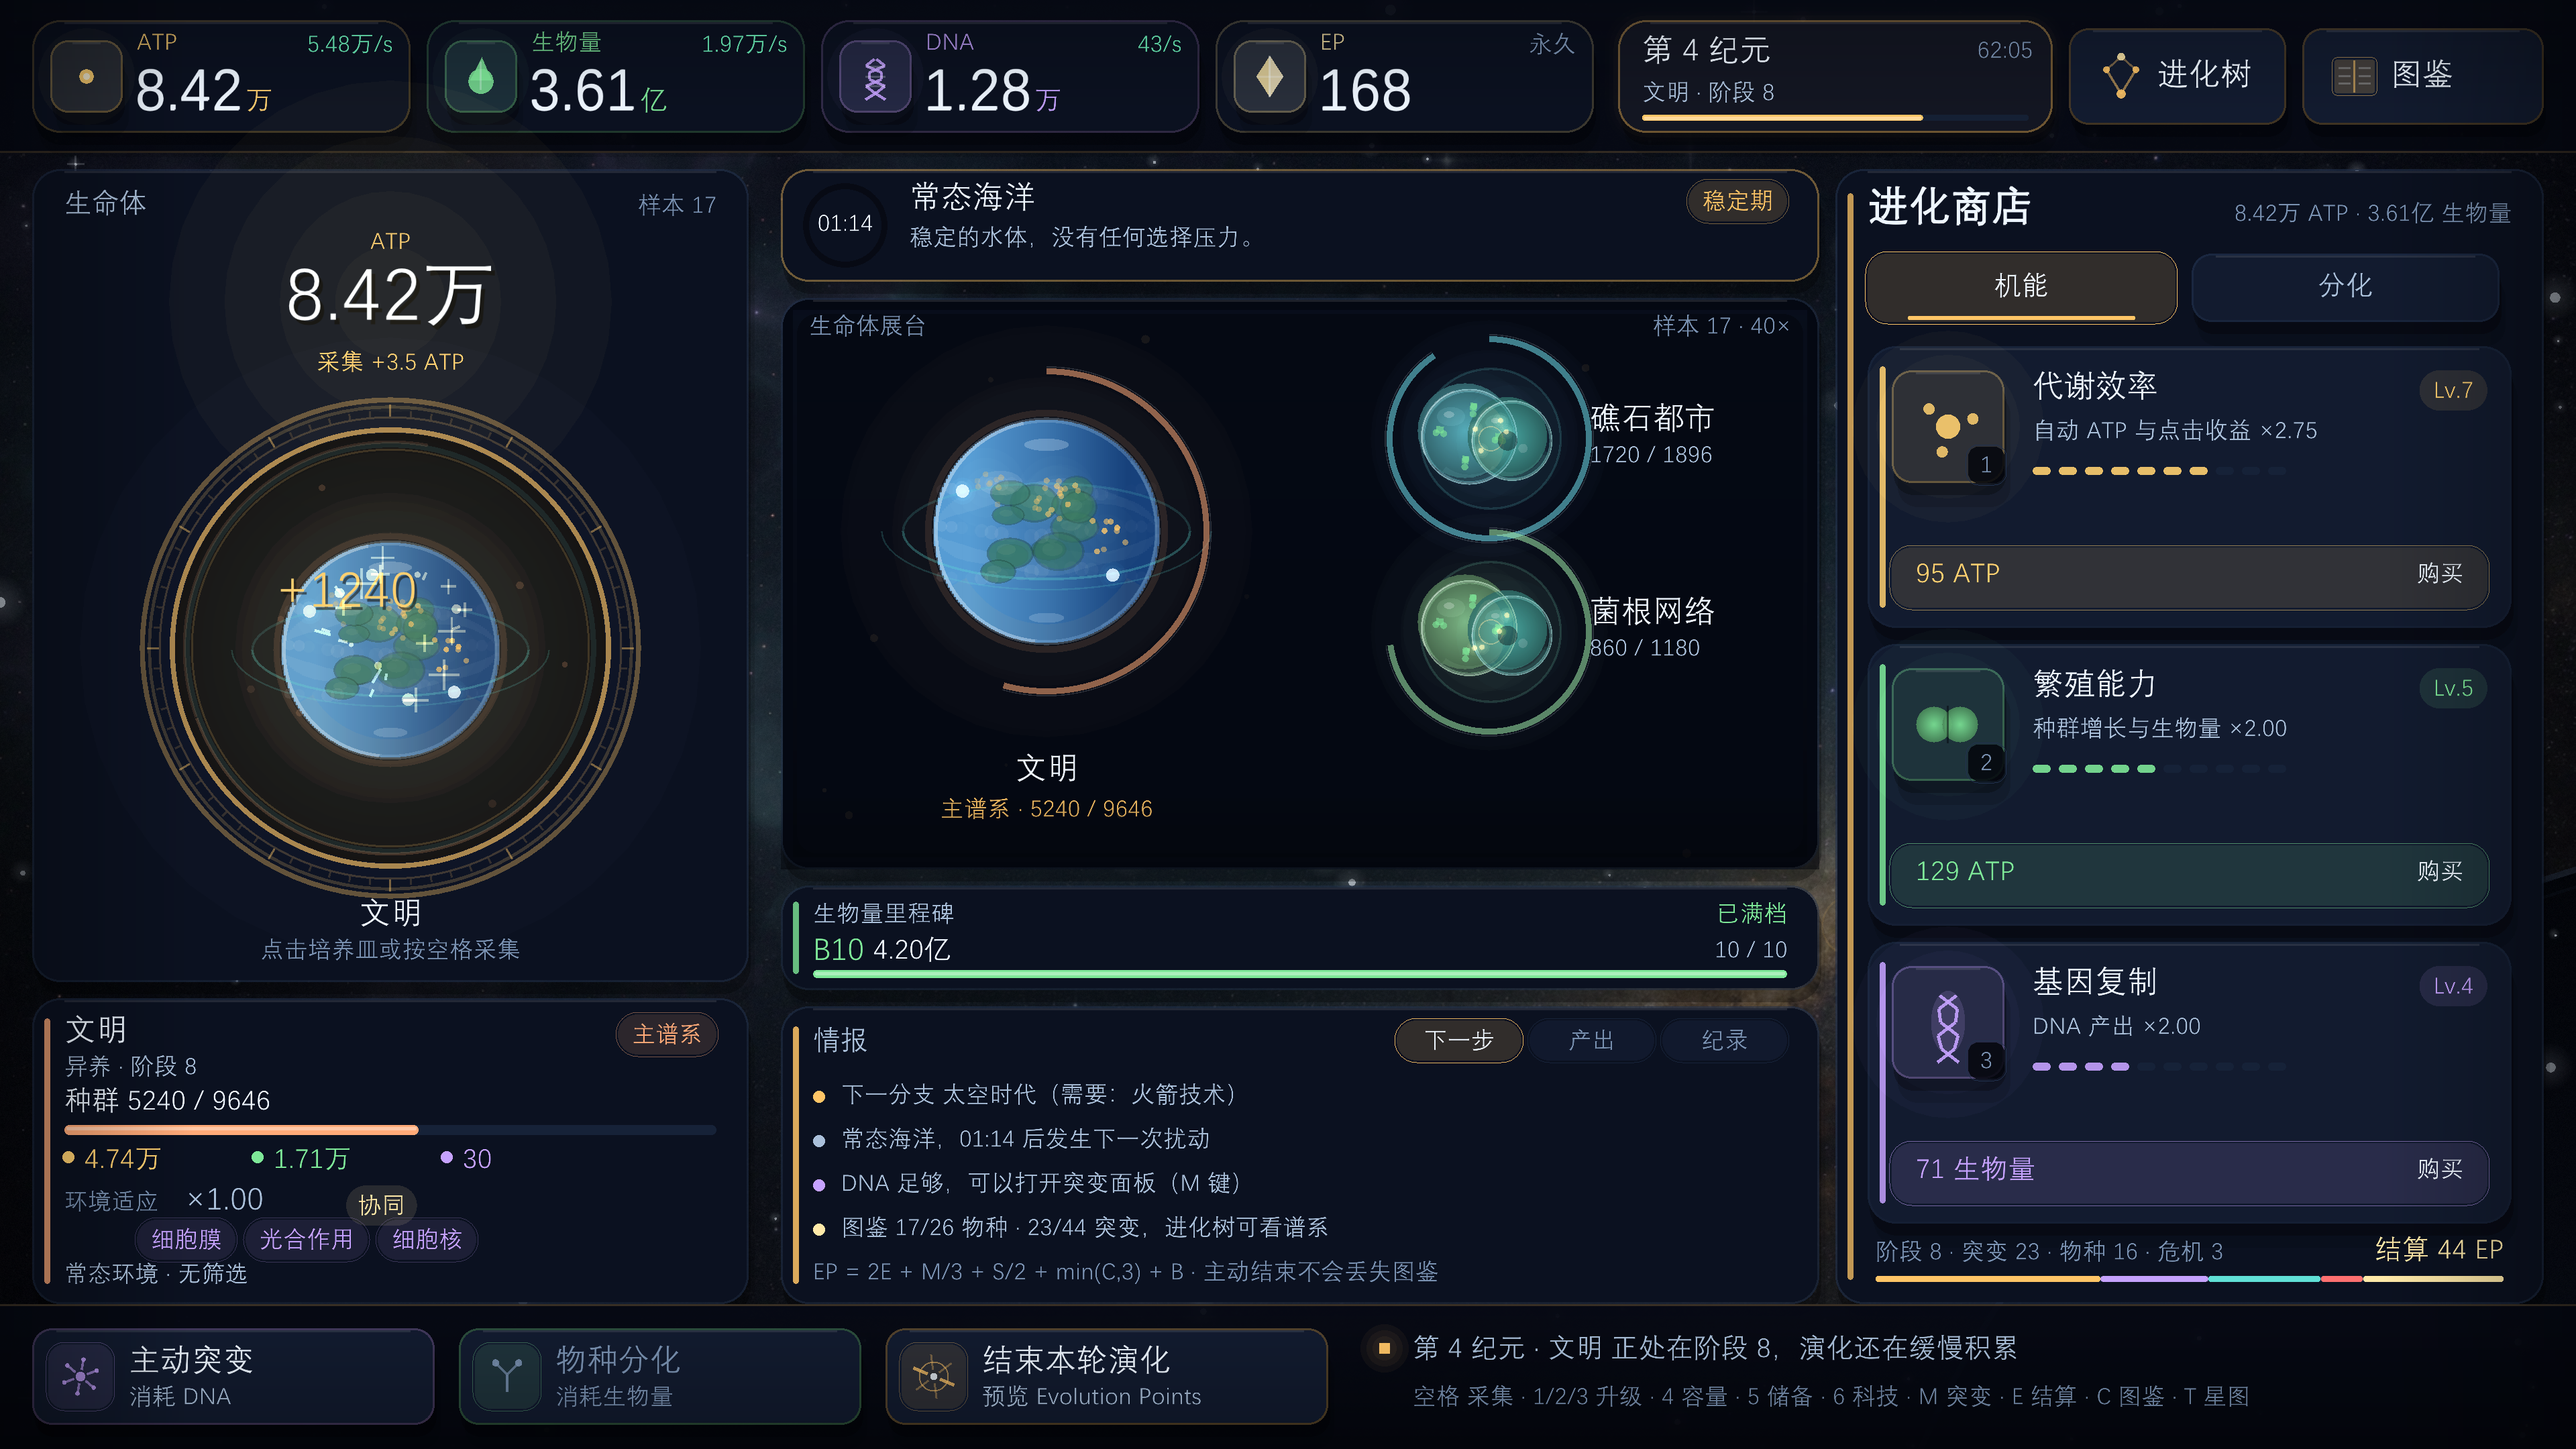
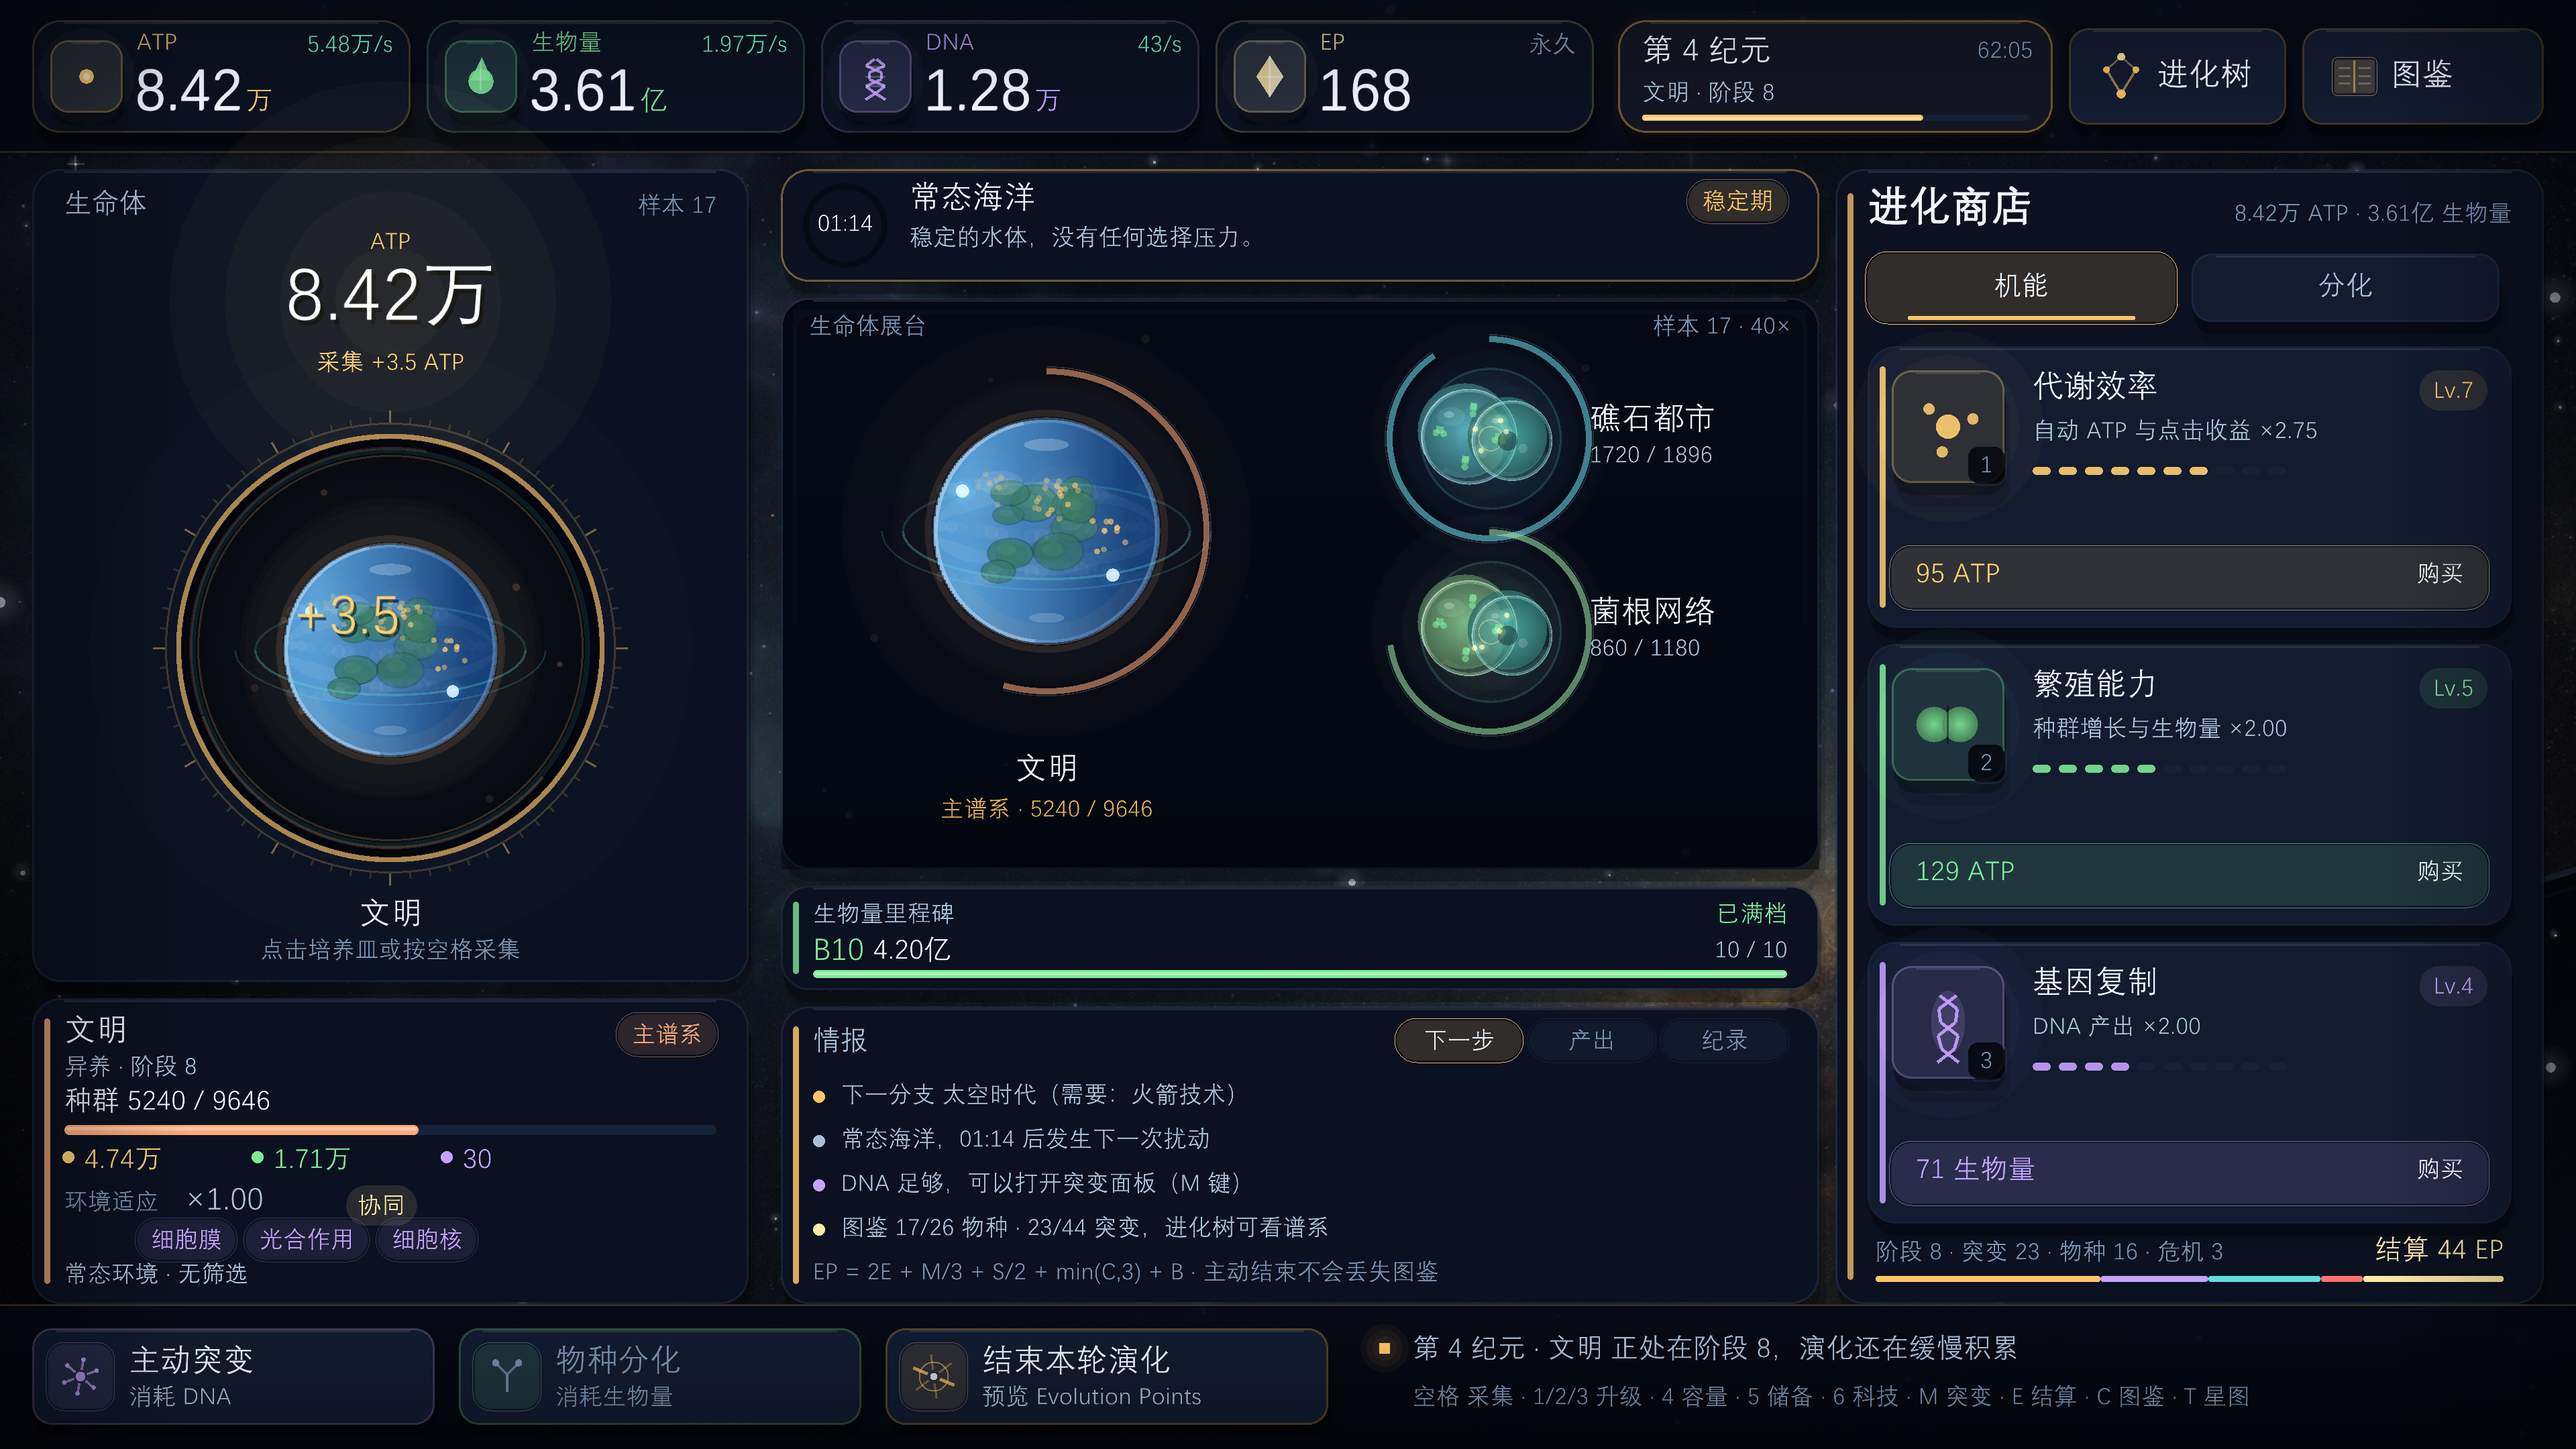
Fix zero click gain feedback and verify actual UI rewards

Changed region(s): [[0.0312, 0.2792, 0.25, 0.6204]]

diff --git a/tests/test_click_feedback.c b/tests/test_click_feedback.c
@@ -1,0 +1,40 @@
+/* Regression: displayed click gain must equal actual ATP added, not the zero cost. */
+#include <assert.h>
+#include <math.h>
+#include <stdio.h>
+#include <string.h>
+#include "game.h"
+#include "ui.h"
+#include "ui_internal.h"
+
+static void check_click(int run_level, int legacy_level)
+{
+    GameState game;
+    game_init(&game);
+    game.run.run_upgrade_levels[UPGRADE_METABOLISM] = run_level;
+    game.legacy.levels[LEGACY_METABOLISM] = legacy_level;
+    memset(&g_ui, 0, sizeof g_ui);
+    GameAction click = { ACTION_CLICK_ATP, 0, 0, 0 };
+    for (int i = 0; i < 5; ++i) {
+        double before = game.run.atp;
+        ActionResult result = game_apply_action(&game, click);
+        assert(result.code == ACTION_OK);
+        assert(result.amount_spent == 0.0);
+        double actual_gain = game.run.atp - before;
+        assert(actual_gain > 0.0);
+        ui_notify_result(&game, click, result);
+        int slot = (g_ui.gain_slot - 1) % 3;
+        assert(g_ui.gain_t[slot] > 0.0f);
+        assert(fabs(g_ui.gain_val[slot] - actual_gain) < 1e-9);
+    }
+}
+
+int main(void)
+{
+    check_click(0, 0);
+    check_click(3, 0);
+    check_click(0, 4);
+    check_click(7, 8);
+    puts("Click feedback: 20 clicks across base/run/legacy/combined bonuses match actual ATP gains");
+    return 0;
+}

diff --git a/src/main.c b/src/main.c
@@ -463,7 +463,9 @@ static void capture_screen(const GameState *base, const char *first_file)
     ui_debug_set_info_tab(0);
 
     /* 采集反馈：皿上浮字 + 星火粒子 */
-    ui_debug_poke_click(1240.0);
+    GameAction click = { ACTION_CLICK_ATP, 0, 0, 0 };
+    ActionResult click_result = game_apply_action(&game, click);
+    ui_notify_result(&game, click, click_result);
     ui_debug_capture(&game, "shot_01c_click.png");
     ui_debug_poke_click(-1.0);   /* 复位，别跟进下一张 */
 

diff --git a/src/ui.c b/src/ui.c
@@ -538,7 +538,8 @@ void ui_notify_result(const GameState *game, GameAction action, ActionResult res
         case ACTION_CLICK_ATP: {
             /* 采集反馈走皿上的漂浮数字，不进全局提示条 */
             int slot = g_ui.gain_slot++ % 3;
-            g_ui.gain_val[slot] = a;
+            /* Clicks earn ATP; amount_spent is zero for this action. */
+            g_ui.gain_val[slot] = ua_click_atp(game);
             g_ui.gain_t[slot] = 1.0f;
             break;
         }

diff --git a/WORK_LOG.md b/WORK_LOG.md
@@ -40,3 +40,12 @@ A/B/C 可运行整合版已在此前完成，Git 基线为 `44e2c0d`；既有结
 - **收尾复核**：最后一次完整 build.ps1 再次通过上述测试与游戏编译；demo 编译通过；16 张 PNG 尺寸及 ZIP 完整性检查通过。确认本地资源与临时备份哈希相同后，删除本轮 .local/unify*.py、验证脚本、哈希清单、资源备份和 build/ 测试中间产物，更新新试玩包内可执行文件。
 
 - **Git 完成结果**：统一合并提交为 `e052737`，已通过原子推送更新 GitHub main，并删除远端 codex/member-b、codex/member-c、final、main-latest；删除前逐一验证其提交均为 main 的祖先，删除操作携带远端提交校验。删除本地已合并的 codex/integrate-abc、codex/member-a。随后重新 fetch/prune 与 ls-remote --heads，确认远端只剩 main，本地也只剩 main，原分支提交历史保留在 main 中。此条完成记录单独提交并同步。
+
+## 2026-11-26 · Codex · 修复点击飘字 +0 与持续同步约定
+
+- **原因**：用户报告点击后显示 +0，要求修复后直接同步 GitHub，并明确后续在原有分支替换旧实现、持续记日志。
+- **根因与修复**：src/ui.c 的点击飘字误读 ActionResult.amount_spent；点击不消耗资源，此字段为 0，但 A 已正常增加 ATP。现通过只读适配接口 ua_click_atp 查询真实经济公式的点击收益，保持规则与金额来源一致，不改变经济或存档格式。
+- **验证改进**：新增 tests/test_click_feedback.c 和 Makefile test-ui 目标，build.ps1 完整构建自动执行；覆盖基础、单轮升级、永久代谢、两者叠加 4 类状态共 20 次点击，逐次比较实际 ATP 增量与飘字数值（含三槽轮换）。截图模式 src/main.c 改走真实 game_apply_action + ui_notify_result，不再注入虚构的 1240 收益；新点击截图可见 +3.5，与该演示局面的点击收益一致。
+- **结果**：build.ps1 通过：48,153 项规则检查、36 项接线检查、60 分钟真实集成回归、新增 20 次点击反馈检查均通过；正式程序编译、启动及 16 张截图导出通过。更新同名根目录程序、deliverables/Tree-of-Life/treeoflife.exe、Tree-of-Life-20261126.zip 与截图，不另留旧交付版本。
+- **长期约定**：AGENTS.md 追加用户明确授权：后续直接沿用 main，修改并验证原有实现后提交同步 GitHub，不另开平行版本；README.md 增加界面反馈测试入口。本轮沿用 main 提交与推送。
+- **收尾**：核实本轮 build/ 为刚生成的编译对象、测试程序与回归存档后删除；截图已移至 deliverables/screens/，无根目录残留截图。用户存档和原有资料保留。

diff --git a/AGENTS.md b/AGENTS.md
@@ -22,3 +22,9 @@
 - 最终交付物集中放在 `deliverables/`；结果截图放在 `deliverables/screens/`。保留用户存档与来源不明的原有文件。
 - 清理前核实文件归属和删除路径；不删除队友的源资料、历史报告、用户内容或仍需使用的构建依赖。
 - 清理动作本身也记入 `WORK_LOG.md`。构建与测试可以重新生成 `build/`，验收后仍按上述规则收尾。
+
+## 现有分支持续更新（用户于 2026-11-26 明确要求）
+
+- 后续项目修改直接在现有 `main` 上更新、验证、提交并同步 GitHub，无需每次另行询问；用户另有明确指令时以新指令为准。
+- 修复与改进替换原有实现及同名当前交付物，不另存旧版本或新建平行工程；保留 Git 历史、用户存档与来源不明的原有资料。
+- 每次修改仍按本文件要求追加 WORK_LOG.md，写明验证结果与同步状态。

diff --git a/README.md b/README.md
@@ -1,4 +1,4 @@
-# Tree of Life
+# Tree of Life
 
 三人 C 语言课程项目，使用 Raylib 2D。采集 ATP、积累生物量和 DNA，选择突变和物种分化，经历环境事件，通过纪元结算获得 EP 与永久强化。
 
@@ -25,6 +25,7 @@ Windows 下安装 MinGW-w64 GCC、mingw32-make 和 Python，并加入 PATH：
 
 ```powershell
 mingw32-make test          # 三组真实规则/集成回归，无测试替身
+mingw32-make test-ui       # 真实点击入账与界面飘字一致性
 mingw32-make demo          # 可选的规则实验控制台
 .\treeoflife.exe --shot --ss 3  # 16 张 3840×2160 演示截图
 ```
